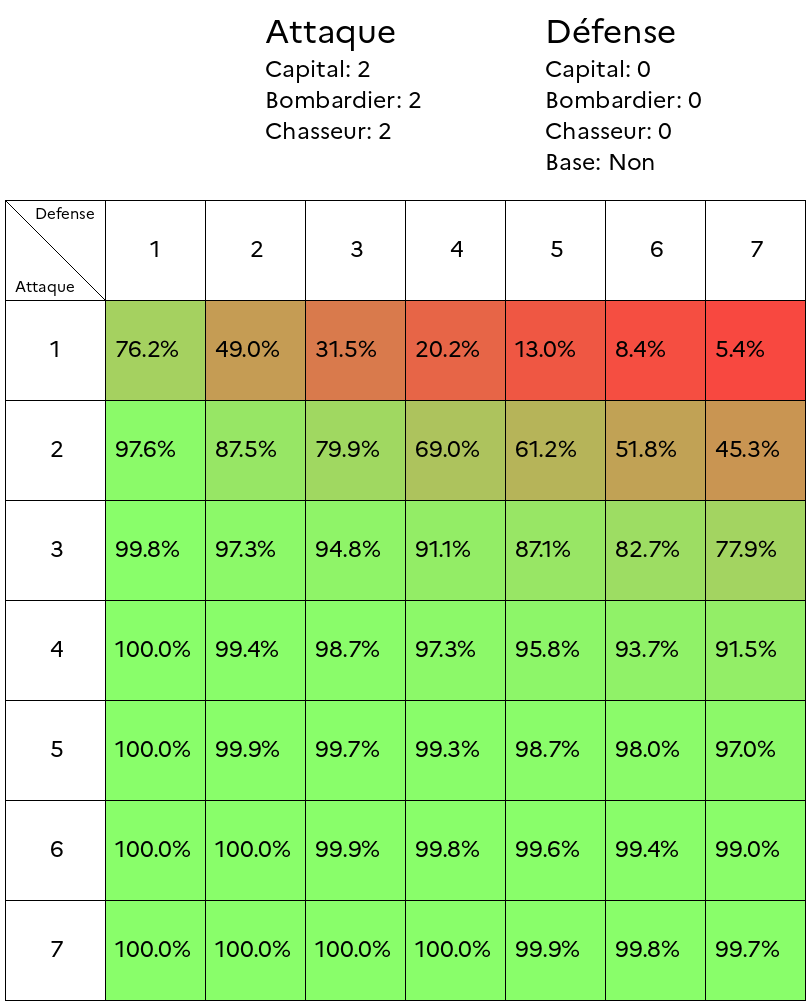
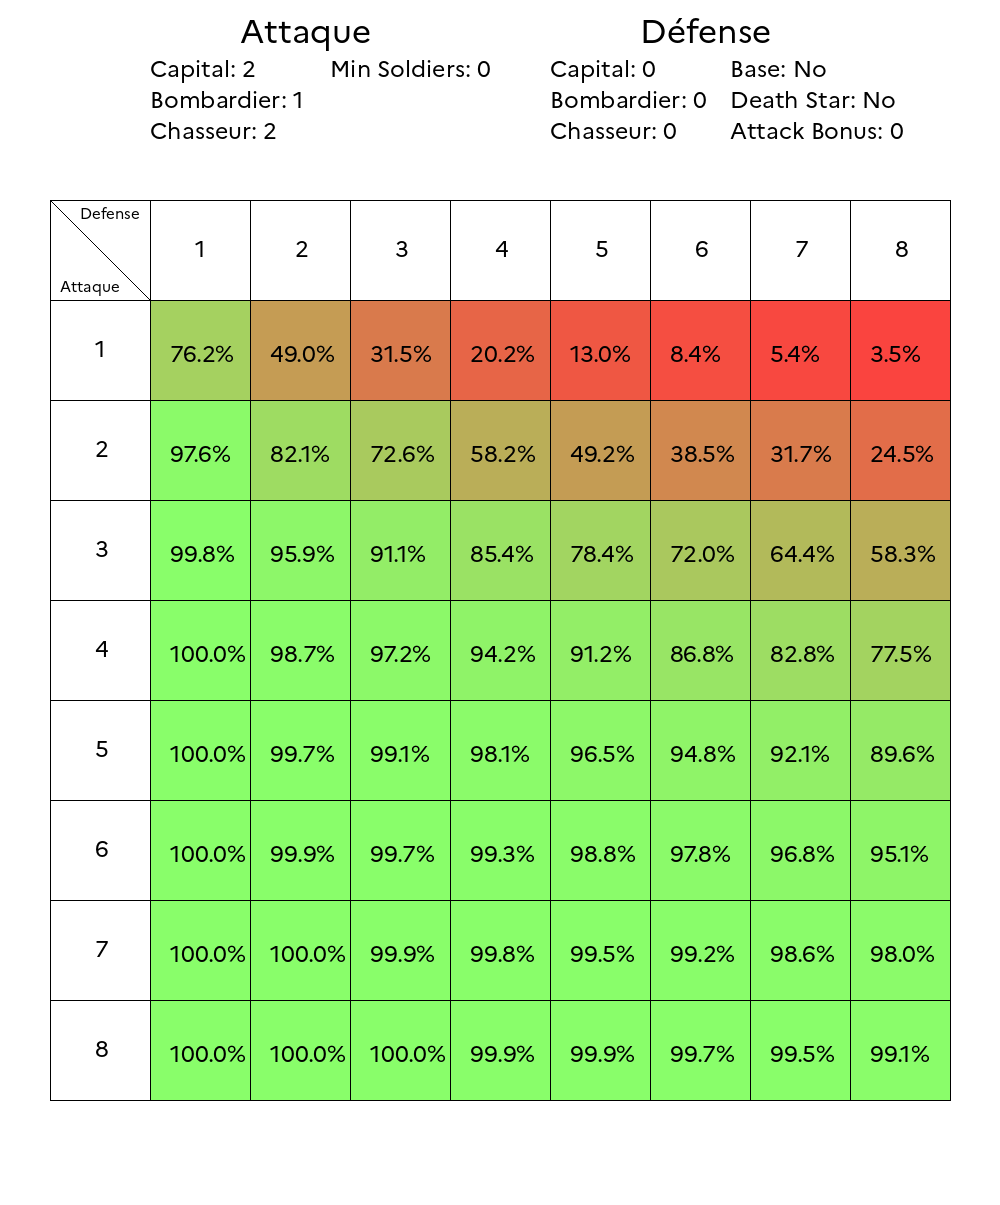
Updates example image

diff --git a/image/image_draw_service.py b/image/image_draw_service.py
@@ -28,19 +28,24 @@ class ImageDrawingService:
             WARNING : Will overide an image if it already exists under the same name.
         """
         self.use_gradient = use_gradient
-        im = Image.new("RGB", (max(500, 110+ self.largeurCellule*(len(tab.liste_proba[0]))+1), max(500, 305 + self.hauteurCellule*(len(tab.liste_proba) + 1))), "white")
+        im = Image.new("RGB", (max(1000, 110+ self.largeurCellule*(len(tab.liste_proba[0]))+1), max(500, 305 + self.hauteurCellule*(len(tab.liste_proba) + 1))), "white")
         self.draw = ImageDraw.Draw(im)
             
-        att_def_distance = 340
+        att_def_distance = 400
         offset = -60
-        self.draw.multiline_text((im.width / 2 - att_def_distance / 2 + offset, 5), "Attaque", font=bigBigGeneralFont, fill=(0, 0, 0))
-        self.draw.multiline_text((im.width / 2 - att_def_distance / 2 + offset, 50), f"Capital: {tab.config.vaisseaux_att[0]}\nBombardier: {tab.config.vaisseaux_att[1]}\nChasseur: {tab.config.vaisseaux_att[2]}", font=bigGeneralFont, fill=(0, 0, 0))
 
-        distance_def = 180
+        distance_column = 180
+        # Attack configuration
+        self.draw.multiline_text((im.width / 2 - att_def_distance / 2 + offset, 5), "Attaque", font=bigBigGeneralFont, fill=(0, 0, 0))
+        self.draw.multiline_text((im.width / 2 - att_def_distance / 2 + offset - distance_column / 2, 50), f"Capital: {tab.config.vaisseaux_att[0]}\nBombardier: {tab.config.vaisseaux_att[1]}\nChasseur: {tab.config.vaisseaux_att[2]}", font=bigGeneralFont, fill=(0, 0, 0))
+        self.draw.multiline_text((im.width / 2 - att_def_distance / 2 + offset + distance_column / 2, 50), f"Min Soldiers: {tab.config.attack_stop_condition}", font=bigGeneralFont, fill=(0, 0, 0))
+
+        # Defense configuration
         self.draw.multiline_text((im.width / 2 + att_def_distance / 2 + offset, 5), "Défense", font=bigBigGeneralFont, fill=(0, 0, 0))
-        self.draw.multiline_text((im.width / 2 + att_def_distance / 2 - distance_def/2 + offset,50), f"Capital: {tab.config.vaisseaux_def[0]}\nBombardier: {tab.config.vaisseaux_def[1]}\nChasseur: {tab.config.vaisseaux_def[2]}", font=bigGeneralFont, fill=(0, 0, 0))
-        self.draw.multiline_text((im.width / 2 + att_def_distance / 2 + distance_def / 2 + offset,50), f"Base: {'Yes' if tab.config.base else 'No'}\nDeath Star: {'Yes' if tab.config.death_star else 'No'}\nAttack Bonus: {tab.config.death_star_fight_bonus}", font=bigGeneralFont, fill=(0, 0, 0))
-        self.drawTable(5,200,tab.liste_proba, tab.config)
+        self.draw.multiline_text((im.width / 2 + att_def_distance / 2 - distance_column/2 + offset,50), f"Capital: {tab.config.vaisseaux_def[0]}\nBombardier: {tab.config.vaisseaux_def[1]}\nChasseur: {tab.config.vaisseaux_def[2]}", font=bigGeneralFont, fill=(0, 0, 0))
+        self.draw.multiline_text((im.width / 2 + att_def_distance / 2 + distance_column / 2 + offset,50), f"Base: {'Yes' if tab.config.base else 'No'}\nDeath Star: {'Yes' if tab.config.death_star else 'No'}\nAttack Bonus: {tab.config.death_star_fight_bonus}", font=bigGeneralFont, fill=(0, 0, 0))
+        
+        self.drawTable((im.size[0] - self.largeurCellule * (len(tab.liste_proba[0]) + 1 ))/2,200,tab.liste_proba, tab.config)
 
         im.save(f"{finaldir}/{finalname}.png", "PNG")
 

diff --git a/main.py b/main.py
@@ -12,6 +12,8 @@ dirName= os.path.dirname(os.path.abspath(__file__))
 def config():
     nb_chasseurs_at, nb_capitaux_at, nb_bombardiers_at = tuple(list(map(int, input("🚀 Vaisseaux de l'attaquant 😈 (chasseur capitaux bombardier) : ").split(" "))))
     nb_chasseurs_de, nb_capitaux_de, nb_bombardiers_de = tuple(list(map(int, input("🚀  Vaisseaux du défenseur 🛡 (chasseur capitaux bombardier) : ").split(" "))))
+    
+    attack_stop_condition = int(input("Enter the amount of soldier under which you do not want to continue the attack (minimum amount of soldier left): "))
 
     is_base_present = input("🏰 Is there an imperial base on the defender planet ? (y/n) :").lower() == "y"
     death_star = input("⚡ Is there a death star on the defender planet ? (y/n) : ").lower() == "y"
@@ -26,19 +28,20 @@ def config():
         base=is_base_present,
         death_star=death_star,
         death_star_fight_bonus=death_star_fight_bonus,
+        attack_stop_condition=attack_stop_condition
         )
     return configuration
 
 
 if __name__=="__main__":
     configuration = Configuration(
-        vaisseaux_att=[0, 0,0], 
+        vaisseaux_att=[2, 1,0], 
         vaisseaux_def=[0, 0, 0], 
         base=False,
-        death_star=False, 
-        death_star_fight_bonus=1,
-        attack_stop_condition=3)
-    attack, defense = 5, 5
+        death_star=True, 
+        death_star_fight_bonus=0,
+        attack_stop_condition=0)
+    attack, defense = 40, 10
 
     #configuration = config()
     #attack, defense = tuple(list(map(int, input("Size of the table to generate (attack defense) : ").split(" "))))

diff --git a/README.md b/README.md
@@ -14,9 +14,9 @@ There are 2 main components in the program :
 
 <img src=Example/1.png width=400>
 
-In this first example we can see that no side is much stronger than the other, this attack is quite balanced.
+In this first example we can see that no side is much stronger than the other, the fight is balanced. Here the attacker stops when he has less than 2 soldiers left.
 
 
 <img src=Example/2.png width=400>
 
-On the other hand, this second example shows a situation where the attack (thanks to its many ships) completely overruns the defense. At 3 against 7 there is an astonishing **77.9%** win rate for the attack!
+This second example shows a situation where the attack (thanks to its many ships) completely overruns the defense. At 3 against 7 there is an astonishing **77.9%** win rate for the attack!
